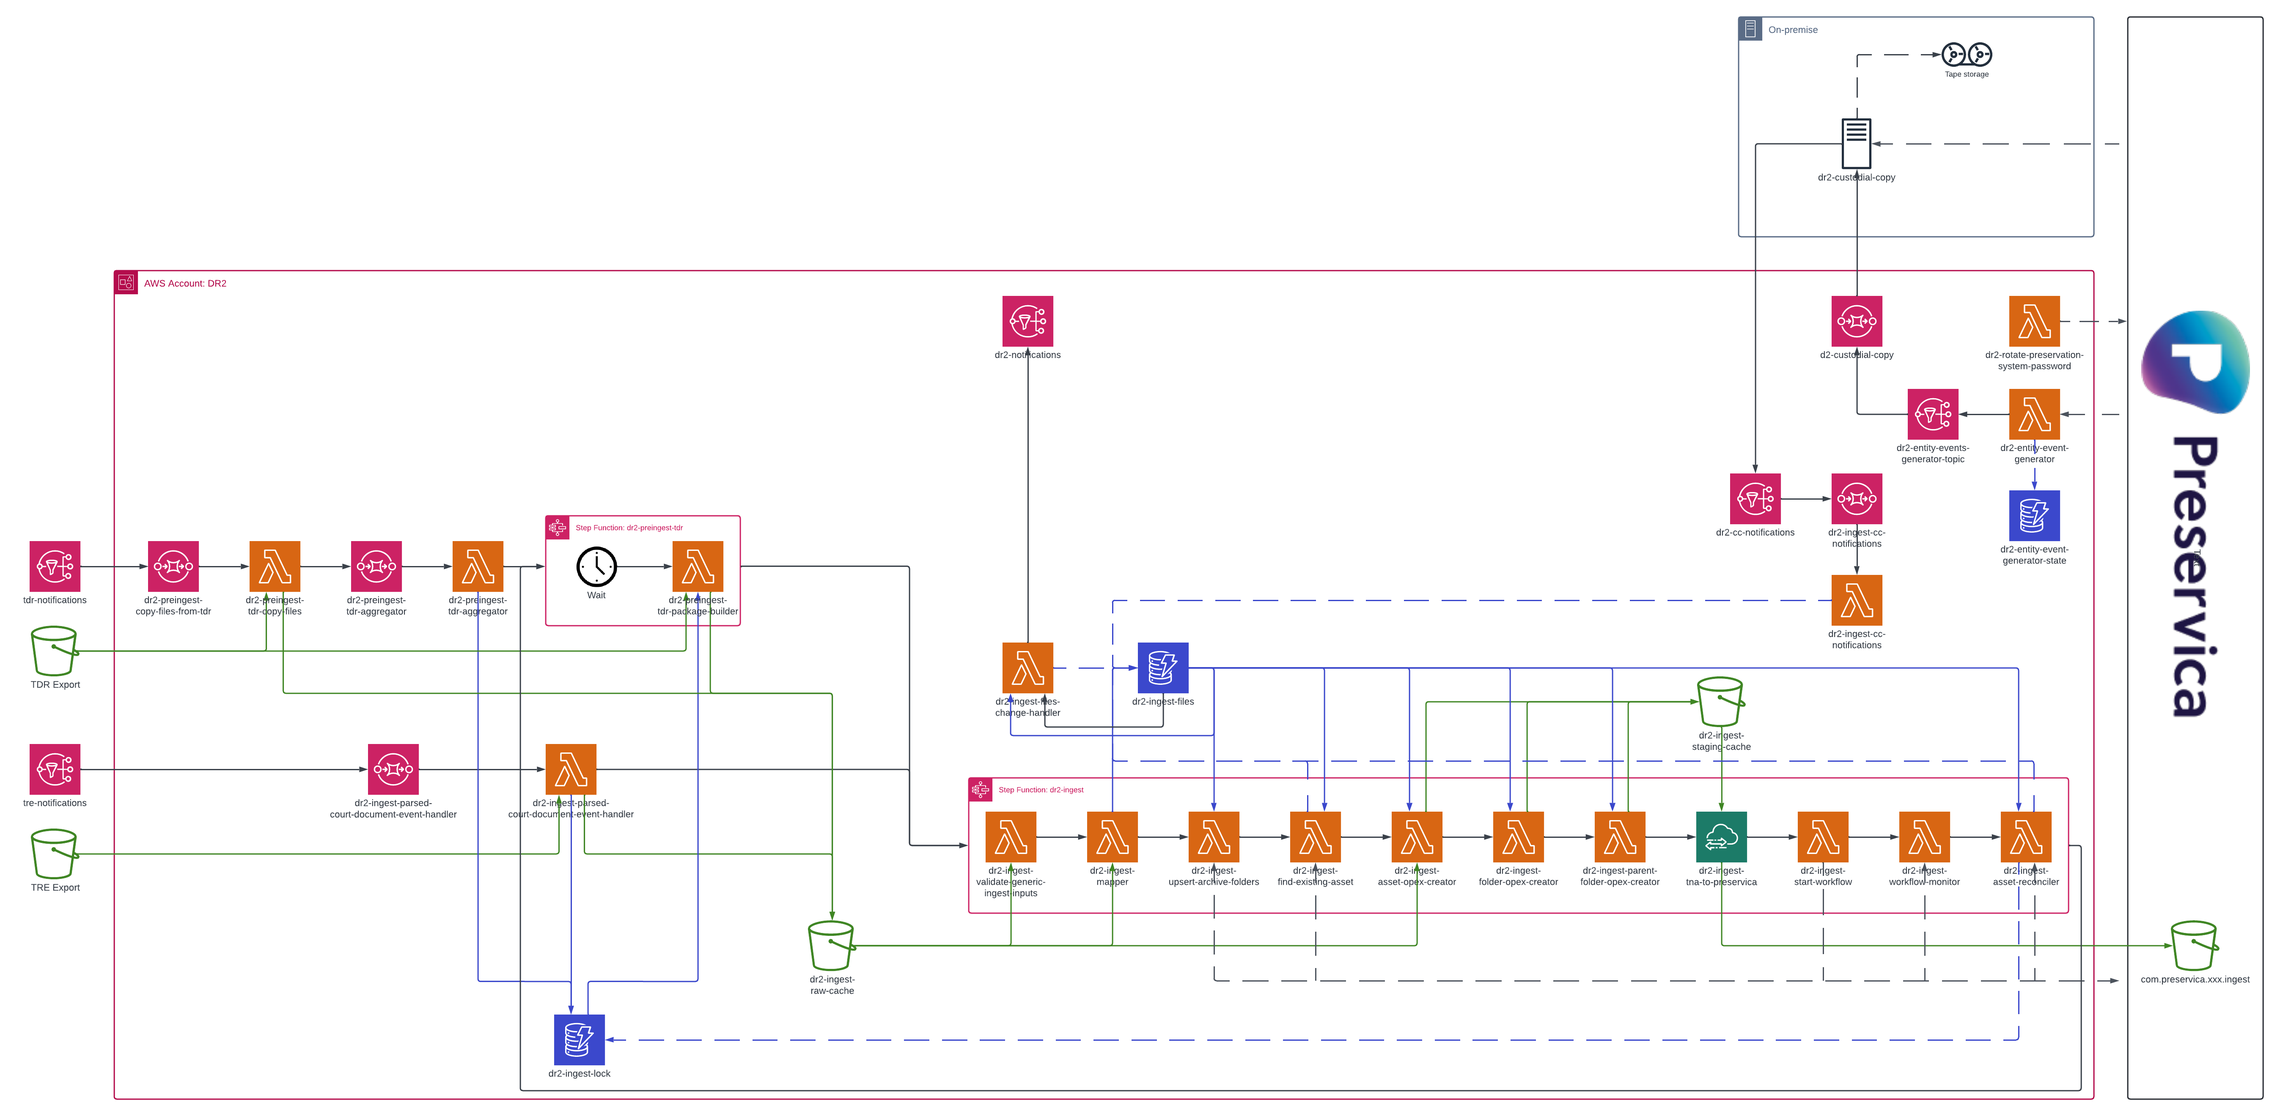
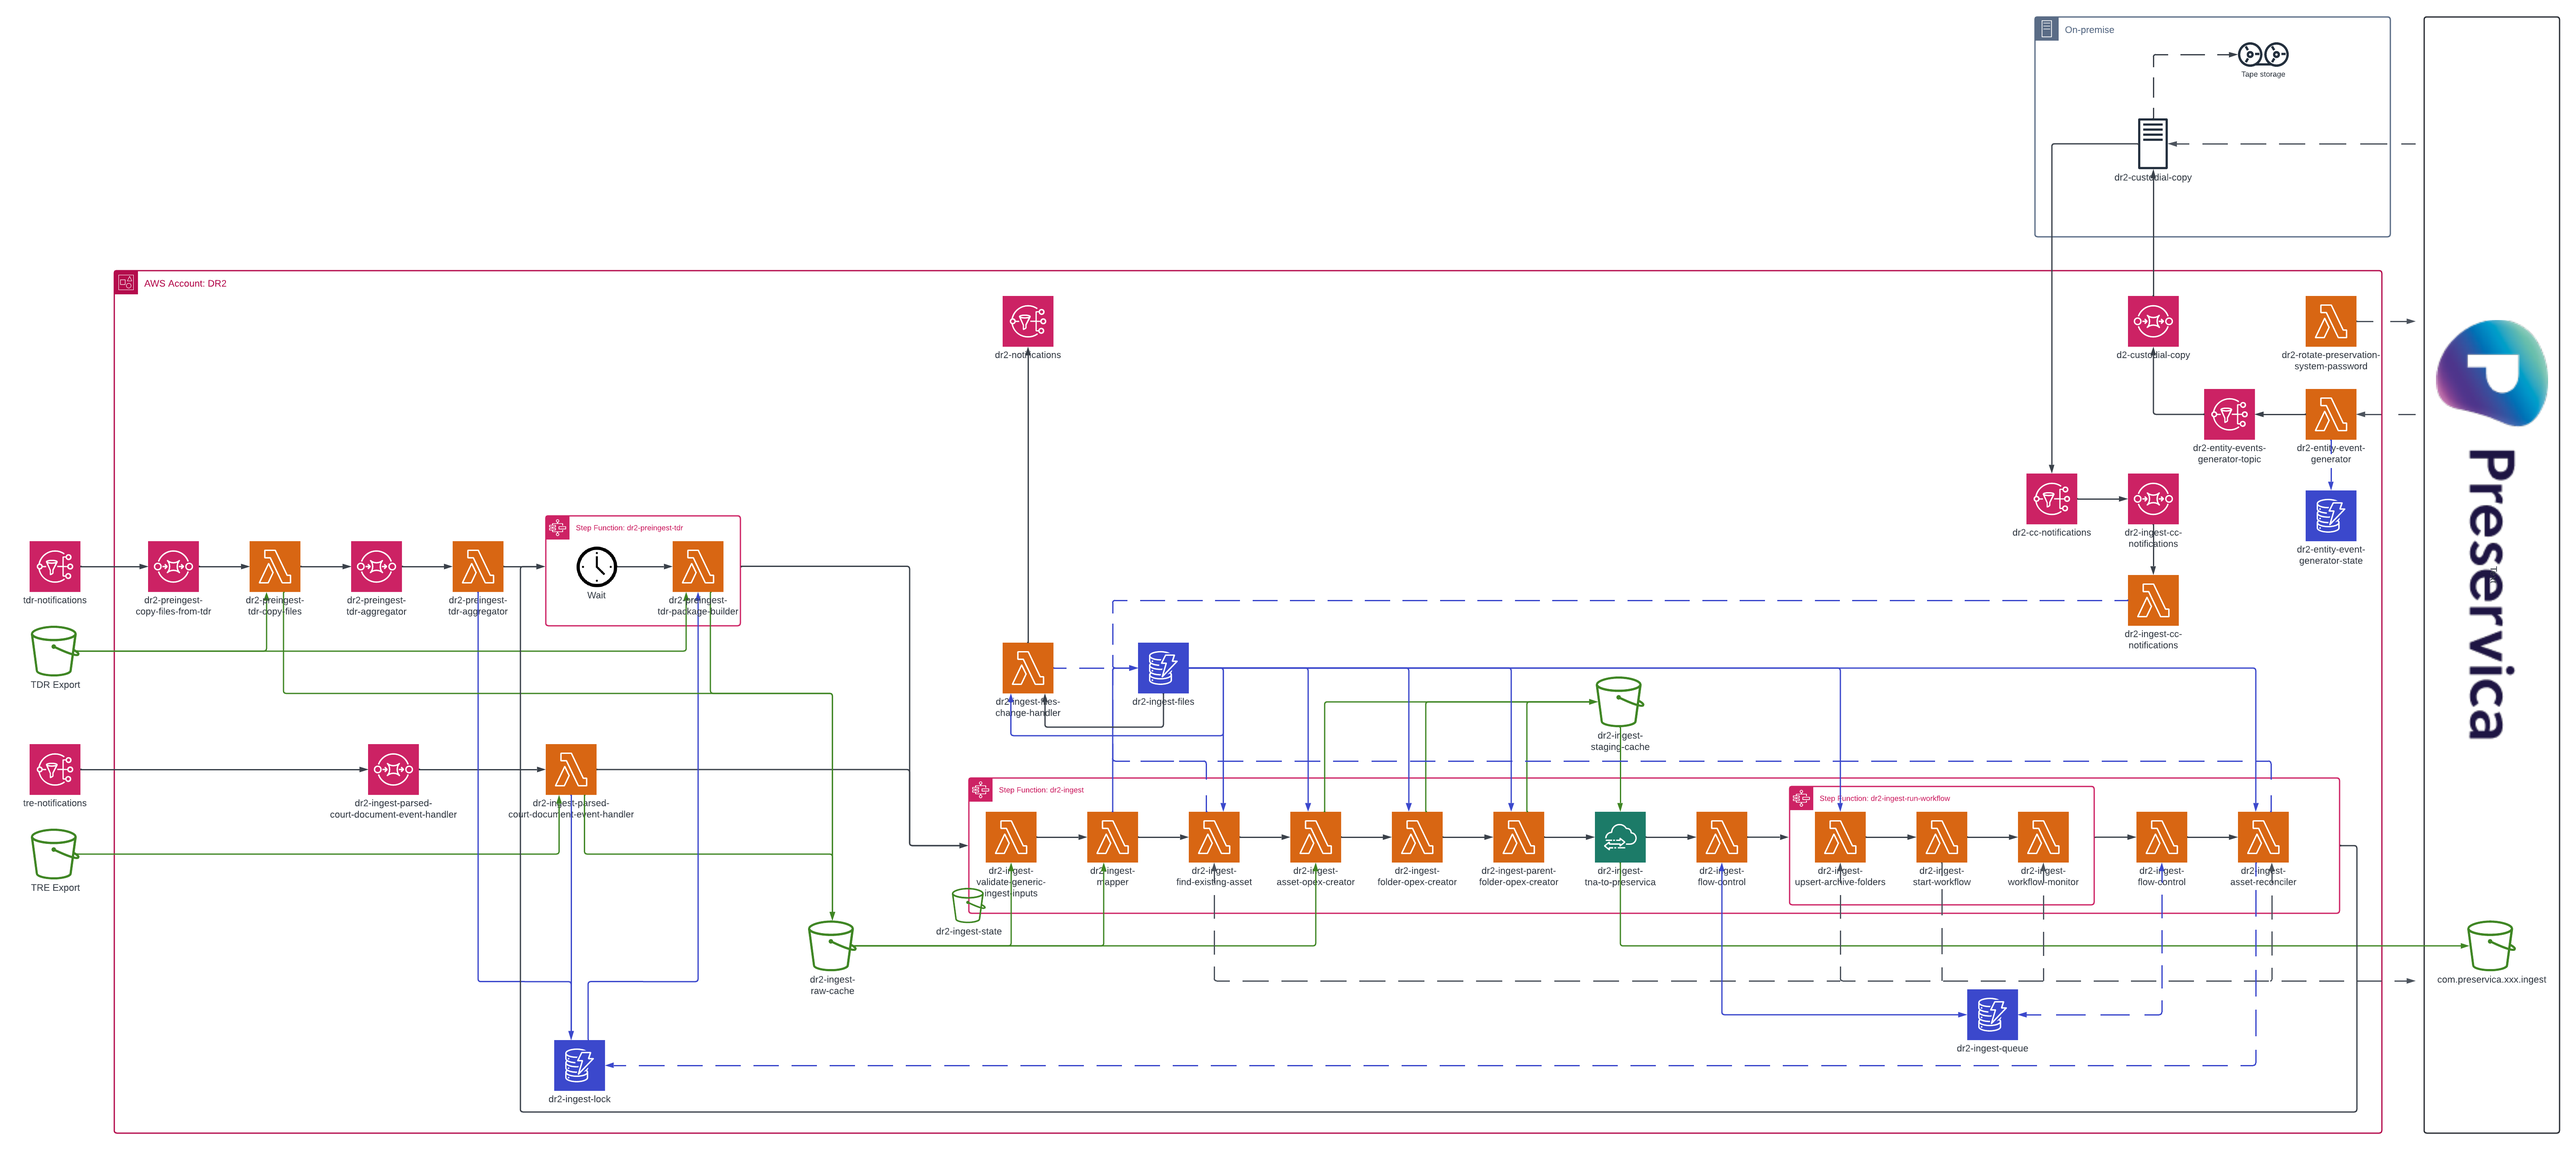
DR2-1613 Add ADR for Ingest Flow Control (#307)

diff --git a/docs/architecture-decision-records/0024-ingest-flow-control.md b/docs/architecture-decision-records/0024-ingest-flow-control.md
@@ -1,0 +1,32 @@
+# 24. Ingest Flow Control
+
+**Date:** 2024-10-21
+
+## Context
+
+Our Generic Ingest process transforms our DR2 BagIt-like package into an OPEX package and ingests this to the Preservation System; once an ingest workflow has started within the Preservation System, we routinely poll for the status and wait for it to complete. The workflows within the Preservation System consist of multiple processes, orchestrated by the Workflow manager, and run on the JobQueue server; the JobQueue server has 16 threads available, meaning only 16 processes can run at any time (across all environments).
+
+During periods of high load, we can start more ingest workflow instances than there are threads available; when this occurs, our ingest workflows block each other as they wait for resources. This increases the elapsed time for all batches to ingest, which in turn increases the number of state transitions in our Step Function and Lambda invocations required to check the workflow status, increasing cost.
+
+## Decision
+
+We will implement a flow control mechanism within our Generic Ingest Step Function. The mechanism will surround only the Preservation System writing and workflow logic, allowing other (read-only) API actions to continue unimpeded.
+
+We will use Step Function's [Task Token](https://docs.aws.amazon.com/step-functions/latest/dg/connect-to-resource.html#connect-wait-token) feature to pause processing until capacity if available. We will write these to DynamoDB; this has been chosen as the queue technology as it is likely we will want to prioritise specific source systems and report on additional metrics about the contents of a batch (asset count, sum of file sizes, etc.). We did consider alternatives, such as SQS, but this would require infrastructure changes for each new source system and lacks the capability to make stored batch metrics accessible without consuming the message.
+
+We will implement 2 mechanisms to consume from the queue: a dedicated "channel" based approach, and a probability-based approach. Both will be useable at the same time. The dedicated "channel" approach will reserve a minimum number of "channels" for a source system, whereas the probability-based approach will aim to use all available channels whilst prioritising source systems with a weighting configuration.
+
+### Implementation
+
+![Flow Control Diagram](/docs/images/adr/0024/flow-control-diagram.png)
+
+- We will create a new Flow Control Lambda function to implement the business logic required to pause and continue ingests.
+- We will create a new DynamoDB table to act as the queue for paused ingests; the table will have a Partition Key for the source system (extracted from the Step Function Execution name) and a Sort Key for the time an item was added to the queue. When querying DynamoDB, the response will be ordered using the Sort Key.
+- We will change the Court Document Preingest route to use the new Generic Ingest batch naming convention defined for TDR Preingest: `<sourceSystem>_<groupId>_<retryCount>`. We will do this to enable our Flow Control Lambda to identify source systems using only the running Step Function execution names.
+- We will re-order our Generic Ingest steps to move the [Upsert Archive Folders Lambda](/scala/lambdas/ingest-upsert-archive-folders) later in our process, just before we start the Preservation System's ingest workflow. This is required as the increased latency between the start of both processes could result in the ArchiveFolders being modified within the Preservation System by users or other ingests, resulting in ingests failing as they are unable to find the folders they created.
+- We will create a new Step Function to orchestrate the tasks that require flow control, allowing our Flow Control Lambda to identify and manage running ingest workflows using only the Step Function `ListExecutions` and `SendTaskSuccess` API endpoints. The new Step Function will be executed synchronously within our existing Generic Ingest Step Function.
+
+## Consequences
+
+- Latency: During periods of high load or when the configuration reserves "channels" for specific source systems, the latency of some batches to ingest will be increased as the Generic Ingest process pauses whilst awaiting a Task Token callback.
+- Updated ArchiveFolders could revert to older metadata or flip between old and new metadata as ingest batches progress. The metadata for these folders is either passed to the ingest workflow within the [metadataPackage JSON file](/docs/metadataPackage.md) or collected from Discovery by the [Mapper Lambda](/scala/lambdas/ingest-mapper). As we are no longer treating all ingest batches as equal, it is possible that updated metadata is reverted due to an older batch being resumed. This is a consequence we are accepting.

diff --git a/docs/architecture-decision-records/0022-replace-datasync-with-direct-lambda-preservica-transfers.md b/docs/architecture-decision-records/0022-replace-datasync-with-direct-lambda-preservica-transfers.md
@@ -1,4 +1,4 @@
-# Architectural Decision Record (ADR): Switching from AWS DataSync to Direct Lambda-to-Preservica Transfers
+# 22. Architectural Decision Record (ADR): Switching from AWS DataSync to Direct Lambda-to-Preservica Transfers
 
 ## Context
 In our current architecture, the opex creator lambda creates the opex files in our staging AWS S3 bucket. These files are later transferred to Preservica, which uses an S3 bucket in their AWS account.

diff --git a/docs/architecture-decision-records/0021-move-from-bagit-to-single-json.md b/docs/architecture-decision-records/0021-move-from-bagit-to-single-json.md
@@ -1,4 +1,4 @@
-# Architectural Decision Record (ADR): Moving from BagIt Package Format to Single Metadata JSON File
+# 21. Architectural Decision Record (ADR): Moving from BagIt Package Format to Single Metadata JSON File
 
 Supersedes [15. BagIt-like package for Generic Ingest](https://github.com/nationalarchives/dr2-ingest/blob/main/docs/architecture-decision-records/0015-bagit-like-package-for-generic-ingest.md)
 

diff --git a/docs/architecture-decision-records/0023-use-ddb-streams-for-messaging.md b/docs/architecture-decision-records/0023-use-ddb-streams-for-messaging.md
@@ -1,4 +1,4 @@
-# Architectural Decision Record: Using DynamoDB Streams for messaging
+# 23. Architectural Decision Record: Using DynamoDB Streams for messaging
 
 ## Context
 
